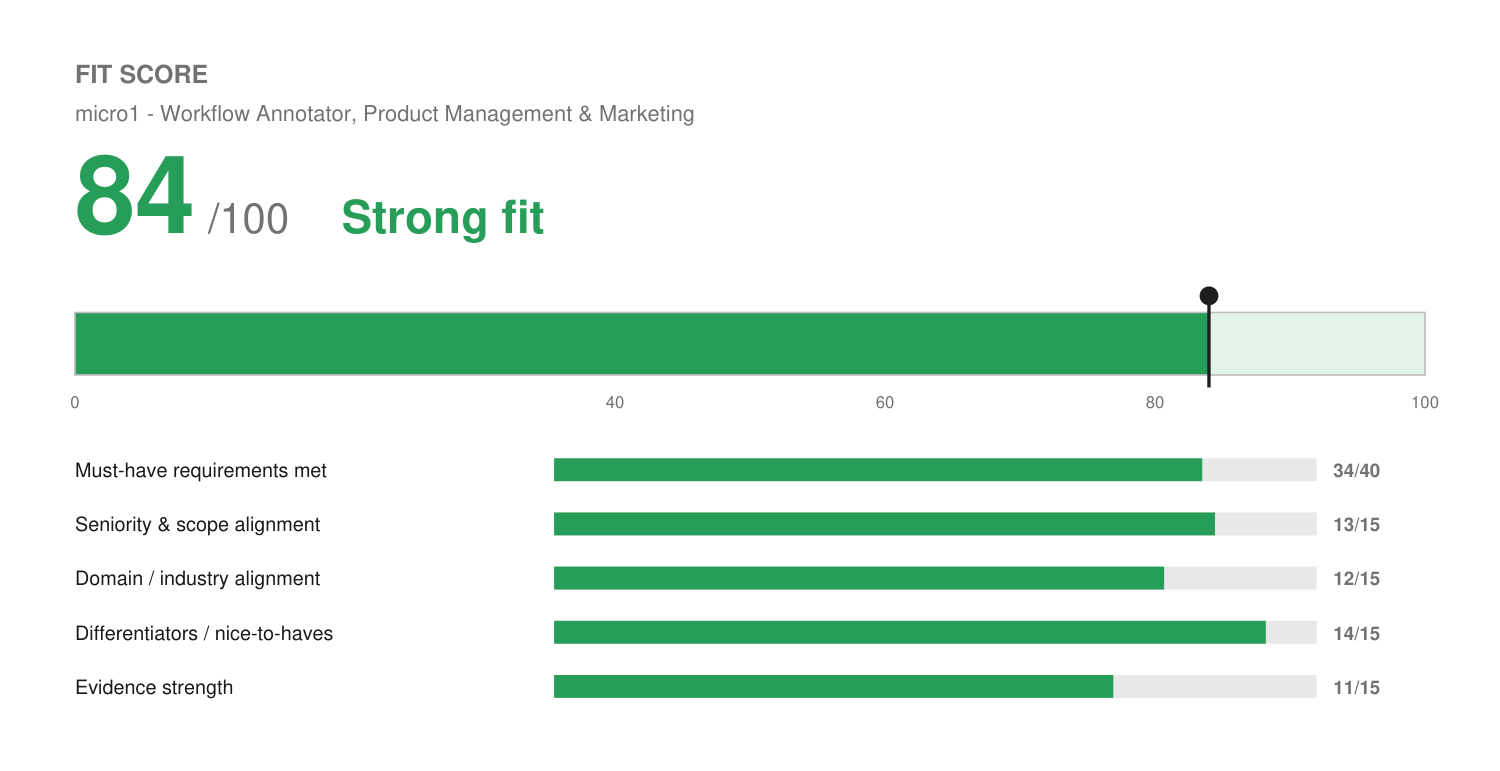
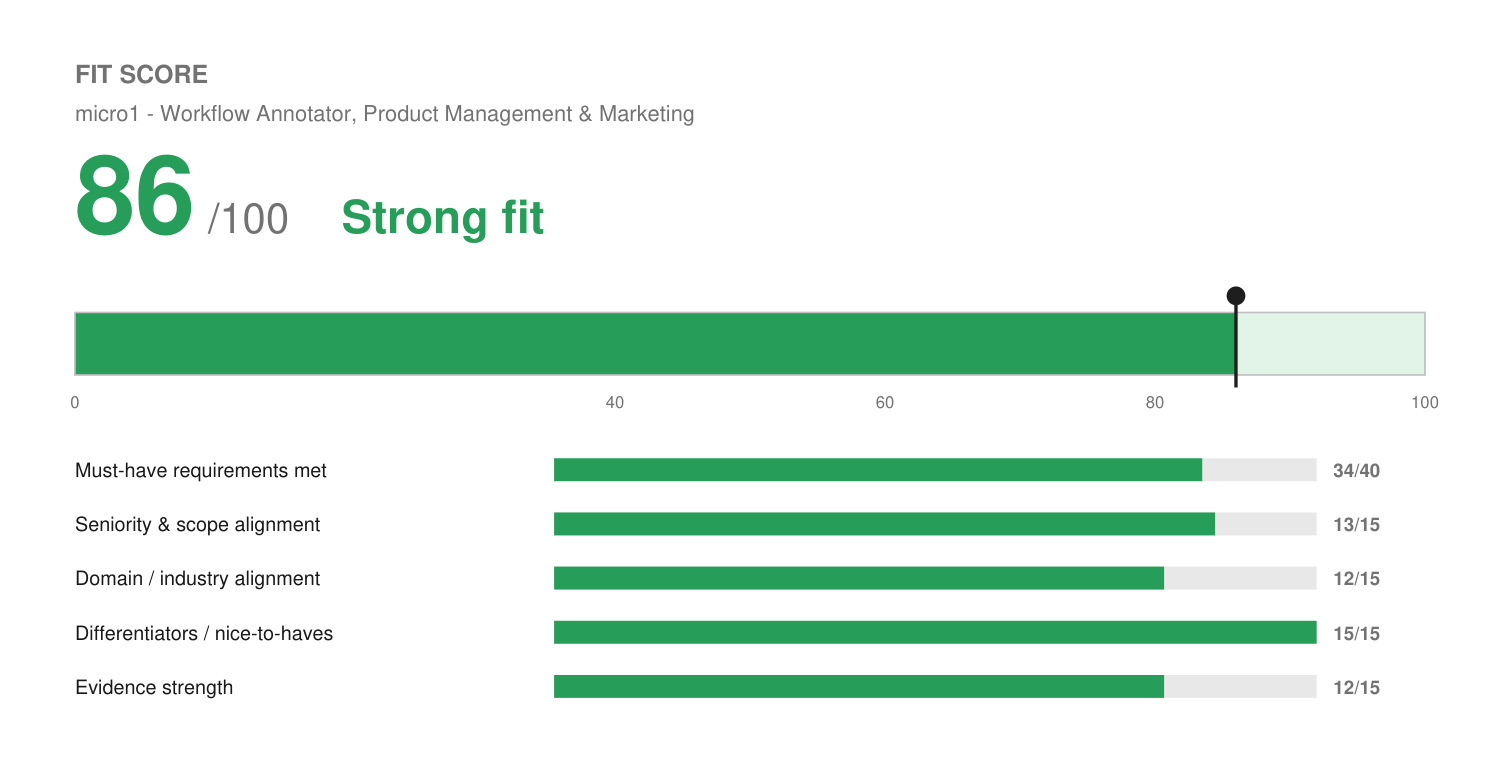
Add Power BI (Accelo) to master profile; propagate to micro1 application
Josh confirmed hands-on Power BI use at Accelo, building and demonstrating
dashboards that showed how Accelo's API could sync live platform data into
client BI reporting. Added to the master profile so it carries into all
future applications.

- master-profile: new Accelo bullet + Power BI in competency banks
- resume: Power BI bullet and Analytics section; trimmed two lower-value
  bullets to hold balanced 2 pages (fill 0.97)
- fit: 84 -> 86, closes preferred qual #6 (BI tooling)
- match-report: BI gap marked closed, Snowflake row downgraded to adjacent
- interview-prep: Power BI removed from do-not-claim; added the API-to-BI
  callback as a connector-section answer

Claude-Session: https://claude.ai/code/session_01TQfwY6zBRw44ZR847mtyAG

diff --git a/applications/micro1-workflow-annotator-pm-marketing/match-report.md b/applications/micro1-workflow-annotator-pm-marketing/match-report.md
@@ -14,8 +14,8 @@
 ## Fit Score
 
 ```
-🟢 Fit Score: 84 / 100 — Strong fit
-[█████████████████░░░]  84%
+🟢 Fit Score: 86 / 100 — Strong fit
+[█████████████████░░░]  86%
 ```
 
 Score meter image: `fit.png`
@@ -25,9 +25,16 @@ Score meter image: `fit.png`
 | Must-have requirements met | 34 | 40 | Clears the stated bar: 2+ yrs in growth/marketing (15+ actually), daily Slack + Google Workspace, documented multi-tool processes, strong written communication. Docks for the "product management" half — he is marketing/ops, not a PM, and has never shipped PRDs or roadmaps. |
 | Seniority & scope alignment | 13 | 15 | Well above the minimum bar for a contractor annotation role. Docks only because he is arguably *over*qualified relative to the $13–36/hr band. |
 | Domain / industry alignment | 12 | 15 | Marketing/growth in SaaS + agency is dead-on. Product management and AI-data-labeling as an industry are adjacent, not native. |
-| Differentiators / nice-to-haves | 14 | 15 | Unusually strong: he already decomposes real workflows into agent architectures, writes prompts/agent instructions from vague stakeholder intent, and builds eval loops for LLM output. That is the *purpose* of this job, seen from the other side. |
-| Evidence strength | 11 | 15 | Concrete, documented workflow artifacts (20+ GHL workflows, SOPs, training materials, QBR frameworks) plus verified metrics. Docks for zero BI/SQL/Snowflake evidence and no PRD/roadmap artifacts. |
-| **Total** | **84** | **100** | **Strong fit — apply.** |
+| Differentiators / nice-to-haves | 15 | 15 | Unusually strong: he already decomposes real workflows into agent architectures, writes prompts/agent instructions from vague stakeholder intent, and builds eval loops for LLM output. That is the *purpose* of this job, seen from the other side. Full marks now that Power BI closes the last named nice-to-have. |
+| Evidence strength | 12 | 15 | Concrete, documented workflow artifacts (20+ GHL workflows, SOPs, training materials, QBR frameworks) plus verified metrics, and now a named BI tool with API-sync work behind it. Still docks for no SQL/Snowflake and no PRD/roadmap artifacts. |
+| **Total** | **86** | **100** | **Strong fit — apply.** |
+
+> **Revised 2026-08-06** from 84 → 86. Josh confirmed hands-on **Power BI** use at Accelo, building
+> and demonstrating dashboards that showed how Accelo's **API could sync live platform data into
+> client BI reporting**. That closes preferred qualification #6 outright (BI tooling) and partially
+> addresses #7 (the JD's "pulling metrics from Snowflake" scenario is the same mental model —
+> piping system data into a reporting surface). Added to `profile/master-profile.md`, so it now
+> carries into every future application.
 
 ---
 
@@ -59,8 +66,8 @@ Score meter image: `fit.png`
 | PRDs and roadmaps specifically | ⚠ Adjacent | Fed structured customer feedback into Birdeye's product roadmap — informed it, never authored one |
 | Cross-functional coordination & complex process documentation | ✅ Strong | Level Agency, Birdeye, Wix team lead |
 | Written/verbal communication for a diverse audience | ✅ Strong | Thought leadership, educational guides, technical translation |
-| Product analytics / BI (Amplitude, Looker, Tableau, Power BI) | ❌ Gap | Has GA4, GSC, CRM dashboards — no named BI tool |
-| SQL / Snowflake / GitHub issues *(explicitly "not required")* | ❌ Gap | None in profile |
+| Product analytics / BI (Amplitude, Looker, Tableau, Power BI) | ✅ Covered | **Power BI at Accelo** — built and demoed dashboards fed by Accelo's API; plus GA4, GSC, CRM dashboards |
+| SQL / Snowflake / GitHub issues *(explicitly "not required")* | ⚠ Adjacent | No SQL or Snowflake. But the API-to-BI sync work at Accelo is the same pattern the JD describes, and he uses GitHub daily via MCP |
 
 ---
 
@@ -77,8 +84,8 @@ Score meter image: `fit.png`
 | Gap | Impact | Fix |
 | :--- | :--- | :--- |
 | **No PRDs or roadmaps authored** | Medium — named in preferred qual #2 | Don't fake it. If he has a real PRD-like artifact (a scoping doc, a build spec for a client automation), add it to the master profile as a true bullet. Otherwise lean on briefs/trackers/readouts, which he does have. |
-| **No product analytics / BI tool** (Amplitude, Looker, Tableau, Power BI) | Low — a "plus," not a requirement | GA4 + CRM dashboards are the honest answer. A weekend in Looker Studio would let him add it truthfully. |
-| **No SQL / Snowflake / GitHub issues** | Low — explicitly "desirable but not required" | The JD only asks him to *pull metrics from Snowflake* inside a scenario, not to be a SQL analyst. Basic SQL literacy would be a cheap, real add. |
+| ~~No product analytics / BI tool~~ | **CLOSED** | Power BI at Accelo, with API-sync work behind it. Now on the resume and in the master profile. |
+| **No SQL / Snowflake** | Low — explicitly "desirable but not required" | The JD only asks him to *pull metrics from Snowflake* inside a scenario, not to be a SQL analyst. Basic SQL literacy would be a cheap, real add — and he now has a credible bridge story via the Accelo API-to-Power-BI work. |
 | **"Product management" title never held** | Medium — it's half the role name | Frame honestly as product *marketing* and cross-functional PM-adjacent work: roadmap feedback at Birdeye, scoping and requirements work at Accelo and Solenzo. |
 | **No annotation/data-labeling experience** | Low — JD says none required | The differentiator framing (he builds the AI systems this data trains) turns this from a gap into an angle. |
 

diff --git a/applications/micro1-workflow-annotator-pm-marketing/interview-prep.md b/applications/micro1-workflow-annotator-pm-marketing/interview-prep.md
@@ -235,6 +235,20 @@ a live, checkable example — use it.
 - **Failure mode:** connectors are only as good as the underlying data hygiene. If the Drive is a
   swamp, retrieval is a swamp. You have a genuine data-hygiene background here — say so.
 
+**The Power BI callback — use this one.** You have a pre-MCP version of this exact story, and it
+plays extremely well because it shows the instinct predates the tooling:
+
+> "I was doing a crude version of this back at Accelo in 2018. I'd build Power BI dashboards and
+> show prospects what their reporting would look like once Accelo's API was syncing live data into
+> it. That was the whole pitch — the data already existed, it was just trapped in a system where
+> nobody looked at it. A connector is the same idea with the plumbing solved: instead of me wiring
+> up an API to move data into a place a human reads it, the model reaches into the system directly.
+> Same instinct, a decade of tooling later."
+
+That answer does four things at once: names a BI tool, demonstrates API literacy, shows you
+understand *why* connectors matter rather than just that they exist, and quietly establishes that
+you've been doing systems integration since before it was easy.
+
 **Trap:** don't recite a catalog of connectors you've never opened. Depth on three beats a list of twelve.
 
 ---
@@ -256,8 +270,12 @@ the combination named in the posting — build it from true material:
 > recommendation → deliver it as a readout. At Level Agency that reporting framework tracked ROI,
 > CAC, LTV, and conversion KPIs and ended in a QBR readout.
 
-Keep the tools honest — say GA4 and CRM dashboards, which you use. **Don't say Snowflake, Looker,
-Tableau, or Amplitude.** You don't use them, and this interviewer will ask a second question.
+Keep the tools honest — say GA4, CRM dashboards, and **Power BI** (Accelo), all of which you've
+used. **Don't say Snowflake, Looker, Tableau, or Amplitude.** You don't use them, and this
+interviewer will ask a second question.
+
+If the scenario they describe involves pulling metrics from a data warehouse, that's your cue for
+the Power BI story — it's the closest true analog you have, and it's a strong one.
 
 ---
 
@@ -358,14 +376,20 @@ someone who uses neither seriously.
 - Wix: 30% traffic increase, 25% conversion improvement (e-commerce segment)
 - 6 deals at Fetch & Funnel, ~$22K average, $130K+ total
 - Accelo: ~$17,750/month implementation bookings (~$213K annualized)
+- Accelo: Power BI dashboards demoed with API-synced platform data
 
 **Terms to use precisely:** MCP (Model Context Protocol) · connector · skill · subagent ·
 source of truth · decision point · failure mode · evaluation loop · deterministic vs. generative
 steps · human-in-the-loop.
 
-**Do NOT claim:** Snowflake · SQL · Looker · Tableau · Power BI · Amplitude · GitHub issue
-management · authoring PRDs or roadmaps · annotation/labeling experience.
+**Do NOT claim:** Snowflake · SQL · Looker · Tableau · Amplitude · authoring PRDs or roadmaps ·
+annotation/labeling experience.
 For every one of those, the script is: **"I haven't. The closest I've done is ___."**
+
+**DO claim — added 2026-08-06:** **Power BI at Accelo.** You built and demonstrated Power BI
+dashboards showing how Accelo's API could sync live platform data into a client's BI reporting.
+That's a named BI tool with real API work behind it, and it closes the posting's analytics
+nice-to-have outright. See the connector section (§3③) for the best way to deploy it.
 
 ---
 

diff --git a/profile/master-profile.md b/profile/master-profile.md
@@ -118,6 +118,7 @@
 - Sold and scoped complex CRM and project-management software to agencies and professional-services firms, with deep fluency in sales enablement, contact management, and pipeline automation.
 - Guided client onboarding, workflow design, and API integrations, building relationships with C-Suite executives as a trusted advisor on operational system design.
 - Served as strategic advisor on CRM adoption, helping clients build scalable operational systems aligned to growth stage and team structure.
+- Built and demonstrated **Power BI** dashboards for prospects and clients, showing how Accelo's **API could sync live platform data into their BI reporting** — translating raw system data into the reporting view a buyer actually cared about.
 - Partnered with implementation teams to guide onboarding, troubleshooting workflow design and resolving technical challenges.
 - Engaged with leadership on issue escalation, strategic guidance, and account-level risk mitigation.
 - Consistently performed above commission floor into accelerator ("doubling") tiers — averaging **~$17,750/month in implementation/services bookings (~$213K annualized)** plus new recurring revenue, earning roughly **$9,300 in monthly performance commission**.
@@ -159,13 +160,13 @@
 | :--- | :--- |
 | CRM & Marketing Automation | GoHighLevel (primary) CRM & Automation Architecture, HubSpot, Salesforce, Workflow Design, Segmentation, Data Hygiene, Lifecycle Stages, Lead Routing |
 | Growth & Demand Generation | Full-funnel acquisition, Lifecycle Marketing, CRO, A/B Testing, Paid Media, SEO, Email Marketing, Landing Pages |
-| Analytics & Reporting | GA4, Google Search Console, Ahrefs, Semrush, Campaign Attribution, ROI Dashboards, QBRs, KPI Tracking |
+| Analytics & Reporting | GA4, Google Search Console, Power BI, Ahrefs, Semrush, Campaign Attribution, ROI Dashboards, QBRs, KPI Tracking, API-to-BI Data Syncing |
 | AI & Automation | Agentic AI, Multi-agent orchestration, LLM workflows, ChatGPT, Claude, Prompt Design, Requirements-to-Prompt Translation, Stakeholder Elicitation, Rapid Prototyping |
 | Customer Success | Onboarding Strategy, Churn Prevention, Time-to-Value Reduction, NPS, Retention, Upsell Identification, Success Plans |
 | Sales & Account Management | Full-cycle Sales, Pipeline Management, C-Suite Relationship Building, Strategic Advisory, Account Expansion |
 | Operations & Systems | Process Mapping, SOP Development, Workflow Decomposition, Project Management, Cross-functional Coordination |
 | Content & Writing | Thought Leadership, Direct Response Copy, Technical Translation, Brand Voice, Editorial Management |
-| Tools & Platforms | GoHighLevel, HubSpot, Salesforce, Notion, Slack, Asana, Monday.com, Jira, Zendesk, Google Apps, Procore |
+| Tools & Platforms | GoHighLevel, HubSpot, Salesforce, Notion, Slack, Asana, Monday.com, Jira, Zendesk, Google Apps, Power BI, Procore |
 
 ---
 
